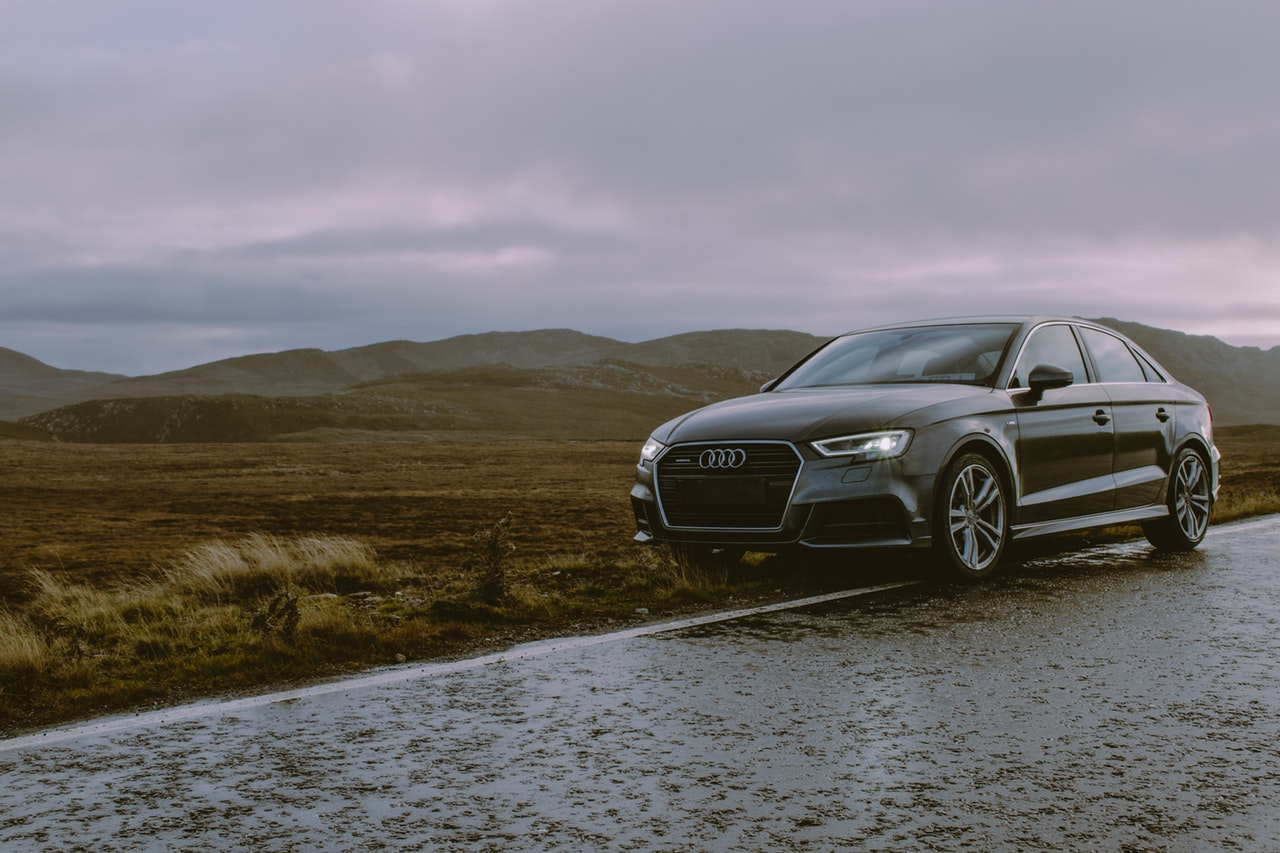
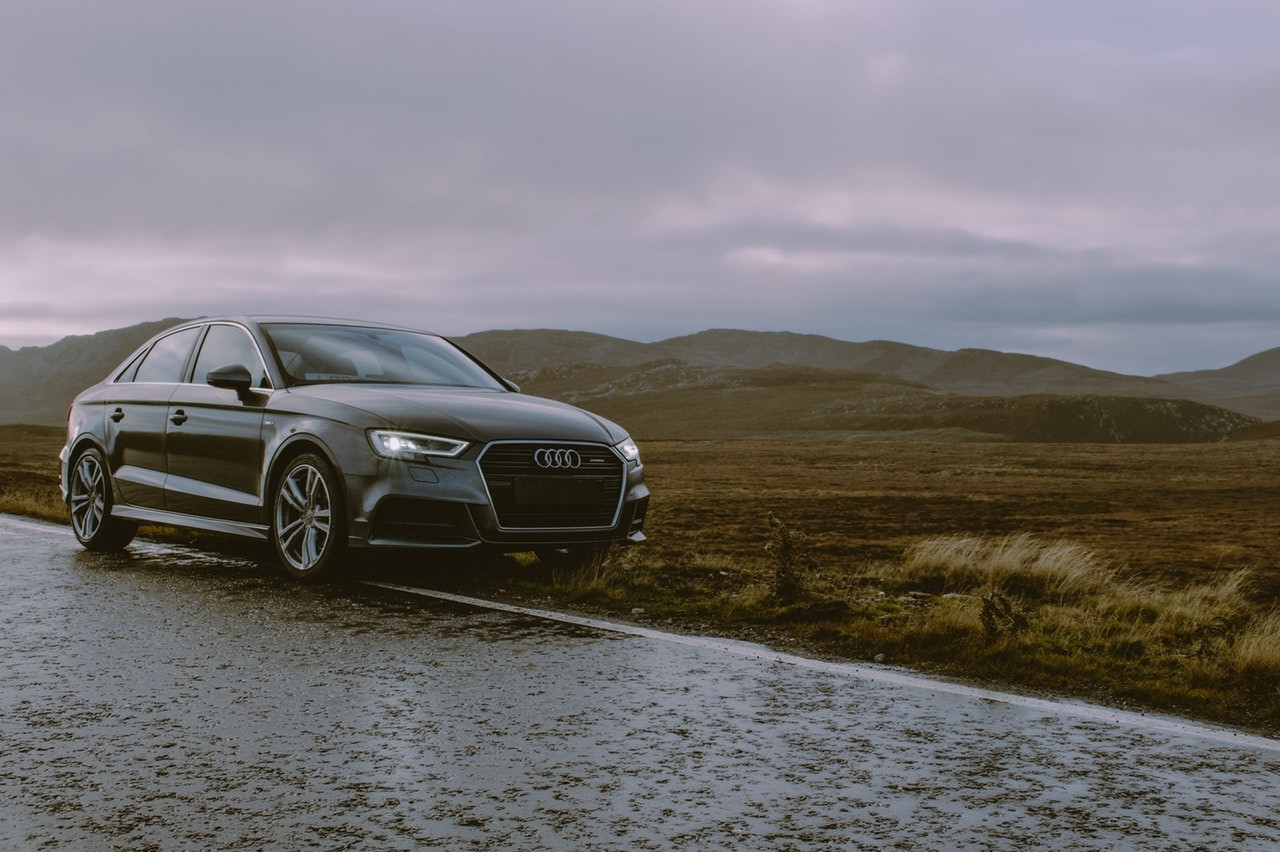
background fix

diff --git a/client/pages/index.vue b/client/pages/index.vue
@@ -1,20 +1,26 @@
 <template>
-<section>
-  <div class="container">
-
-
+<section >
+  <div class="container" >
   </div>
-      <div>sadas</div>
-      <div>sadas</div>
-      <div>sadas</div>
-      <div>sadas</div>
-      <div>sadas</div>
-      <div>sadas</div>
-      <div>sadas</div>
-
-      <div>sadas</div>
-      <div>sadas</div>
-      <div>sadas</div>
+      
+    <div>
+      <p>SCROLL</p>
+      <p>SCROLL</p>
+      <p>SCROLL</p>
+      <p>SCROLL</p>
+      <p>SCROLL</p>
+      <p>SCROLL</p>
+      <p>SCROLL</p>
+      <p>SCROLL</p>
+      <p>SCROLL</p>
+      <p>SCROLL</p>
+      <p>SCROLL</p>
+      <p>SCROLL</p>
+      <p>SCROLL</p>
+      <p>SCROLL</p>
+      <p>SCROLL</p>
+      <p>SCROLL</p>
+    </div>
 
  </section>
 </template>
@@ -31,19 +37,23 @@ export default {
 
 <style>
 
-.container {
-  position: relative;
-    background-image: url("~assets/images/audi1.jpg");
-    background-position: center;
-  -webkit-background-size: cover;
-  -moz-background-size: cover;
-  -o-background-size: cover;
-  background-size: cover;
-  margin: 0 auto;
-  height: 107vh;
-  /* background-attachment: fixed; */
 
- 
+
+.container {
+  background: url("~assets/images/audi1.jpg");
+  background-position: center top;
+  background-size: cover;
+  height: 125vh;
+}
+
+
+@media only screen and (max-width: 600px) {
+  .container {
+    background: url("~assets/images/audi21.jpg");
+    background-position: center top;
+    background-size: cover;
+    height: 100vh;
+  }
 }
 
 </style>

diff --git a/client/layouts/default.vue b/client/layouts/default.vue
@@ -18,6 +18,7 @@ export default {
 
 <style>
 html {
+  height: 100%;
   font-family: 'Source Sans Pro', -apple-system, BlinkMacSystemFont, 'Segoe UI',
     Roboto, 'Helvetica Neue', Arial, sans-serif;
   font-size: 16px;
@@ -34,6 +35,7 @@ html {
 *:after {
   box-sizing: border-box;
   margin: 0;
+  padding: 0;
 }
 
 .button--green {
